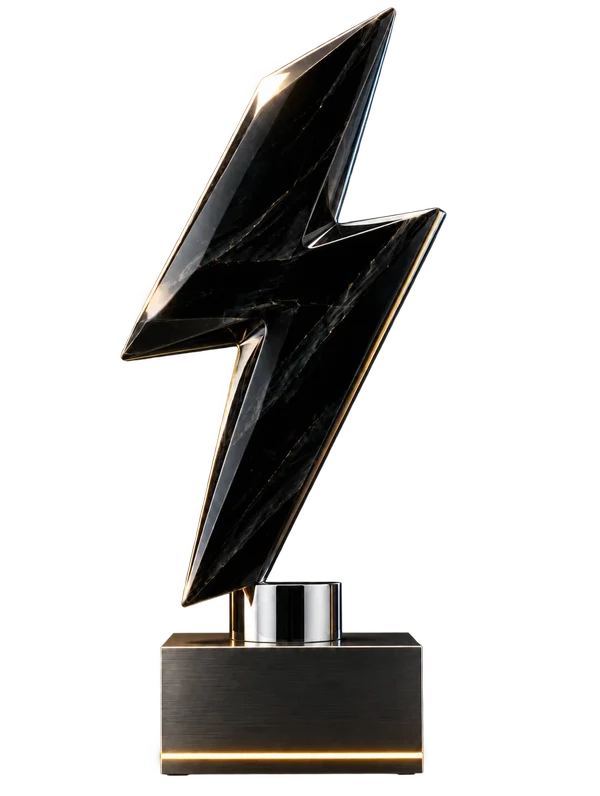
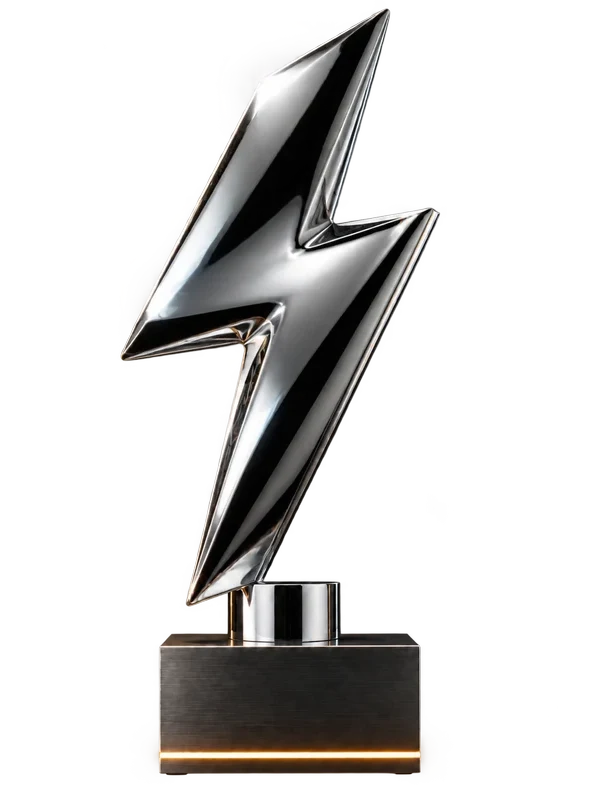
The library trophies: one per skill for watching every lesson in it; Unstoppable to chrome
Challenges are how you practise; the lessons are the other half of the
method, and nothing in the case rewarded working through them. Now
each skill has a trophy for watching every lesson in it - glossy
enamel in the skill's own colour, detailed in gold, a new "Library"
category:

  Confidence          Mind Over Matter   a brain           13 lessons
  Storytelling        Once Upon a Time   quill and inkwell 15
  Figurative          Word Painter       palette and brush 11
  Acting              Method Actor       stage spotlight   13
  Structure           The Architect      keystone archway  14
  Body & Physical     Body of Work       posing mannequin   6
  Advanced            Grandmaster        chess king         9

The counts are read from the lesson list, so a lesson added to a skill
raises its bar without anyone editing a trophy. They are new trophies
rather than existing ones repurposed: the skill trophies are about
using a skill across challenges, and that should stay separate from
having watched it taught.

Unstoppable, seven days in a row, moves from obsidian to chrome - the
material for turning up - now that Iron Will is the obsidian streak.

Changed region(s): [[0.21, 0.0, 0.75, 0.8141], [0.24, 0.8141, 0.72, 0.995]]

diff --git a/src/data/badges.ts b/src/data/badges.ts
@@ -1,6 +1,7 @@
 import type { CategoryId } from "./categories";
 import { challengeBadges, challenges, storyPhases } from "./challenges";
-import { lessons } from "./lessons";
+import { lessons, lessonsInCategory } from "./lessons";
+import { categoryById } from "./categories";
 import { cohort } from "./cohort";
 
 // Gamification layer - master plan §11. Badges recognize effort as much
@@ -53,6 +54,17 @@ function challengesAt(s: BadgeEvalState, id: CategoryId, bar: number, passedOnly
 }
 const xpOf = (s: BadgeEvalState) => s.xp ?? 0;
 const minutesOf = (s: BadgeEvalState) => s.attempts.reduce((sum, a) => sum + (a.durationSec ?? 0), 0) / 60;
+
+/** One trophy per skill, for watching every lesson in it. */
+const LIBRARY: { category: CategoryId; title: string; message: string }[] = [
+  { category: "mindset", title: "Mind Over Matter", message: "Every Confidence lesson watched. The part of speaking that happens before you open your mouth - done." },
+  { category: "storytelling", title: "Once Upon a Time", message: "Every Storytelling lesson watched. You know how a story is built now; go and tell one." },
+  { category: "figurative", title: "Word Painter", message: "Every Figurative & Sensory lesson watched. The palette is yours." },
+  { category: "acting", title: "Method Actor", message: "Every Acting lesson watched. Now perform the moment instead of reporting it." },
+  { category: "structure", title: "The Architect", message: "Every Structure lesson watched. You can build a talk that stands up on its own." },
+  { category: "body-language", title: "Body of Work", message: "Every Body & Physical lesson watched. Your whole body is part of the talk now." },
+  { category: "advanced", title: "Grandmaster", message: "Every Advanced lesson watched. The tricks the professionals use - all of them." },
+];
 
 export interface BadgeDef {
   id: string;
@@ -398,6 +410,20 @@ export const badgeDefs: BadgeDef[] = [
     // so comparing the strings would misplace a take by hours.
     earned: (s) => s.attempts.some((a) => new Date(a.at).getTime() <= new Date(cohort.endsAt).getTime()),
   },
+  // The library, one skill at a time: every lesson in a colour watched.
+  // Challenges are how you practise; these are for the other half of the
+  // method, the teaching - and they give a student who is working
+  // through the lessons something to show for it before they have
+  // recorded much.
+  ...LIBRARY.map((l) => ({
+    id: `library-${l.category}`,
+    title: l.title,
+    message: l.message,
+    icon: "trophy",
+    how: `Watch all ${lessonsInCategory(l.category).length} ${categoryById.get(l.category)?.name ?? l.category} lessons.`,
+    earned: (s: BadgeEvalState) =>
+      lessonsInCategory(l.category).every((lesson) => s.watchedLessons.includes(lesson.vimeoId)),
+  })),
   {
     id: "journey-complete",
     title: "The Whole STORY",

diff --git a/src/app/prototype/spotlight/trophy-room.tsx b/src/app/prototype/spotlight/trophy-room.tsx
@@ -10,6 +10,7 @@ const MATERIALS = [
   { key: "obsidian", label: "Obsidian", note: "The rare ones, and the whole road at the end of it." },
   { key: "spectrum", label: "Spectrum glass", note: "Finishing a phase of the road - all seven colours at once." },
   { key: "gold", label: "Gold", note: "A top score: 90 or more on a challenge." },
+  { key: "enamel", label: "Library", note: "Every lesson in one skill watched - one for each colour." },
   { key: "chrome", label: "Chrome", note: "Turning up again and again." },
   { key: "ceramic", label: "Ceramic", note: "How you speak, and how you feel doing it." },
   { key: "painted", label: "Painted", note: "The twenty-four challenges, each the real thing in full colour." },
